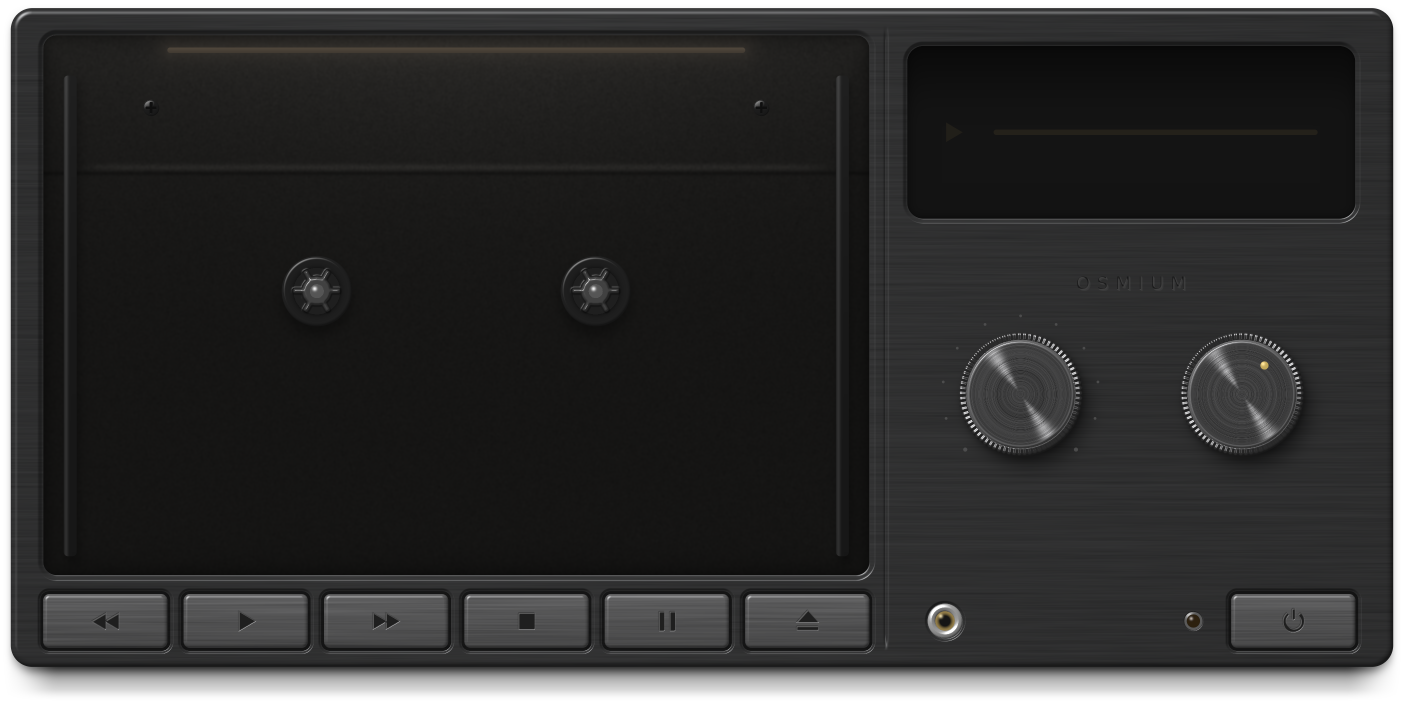
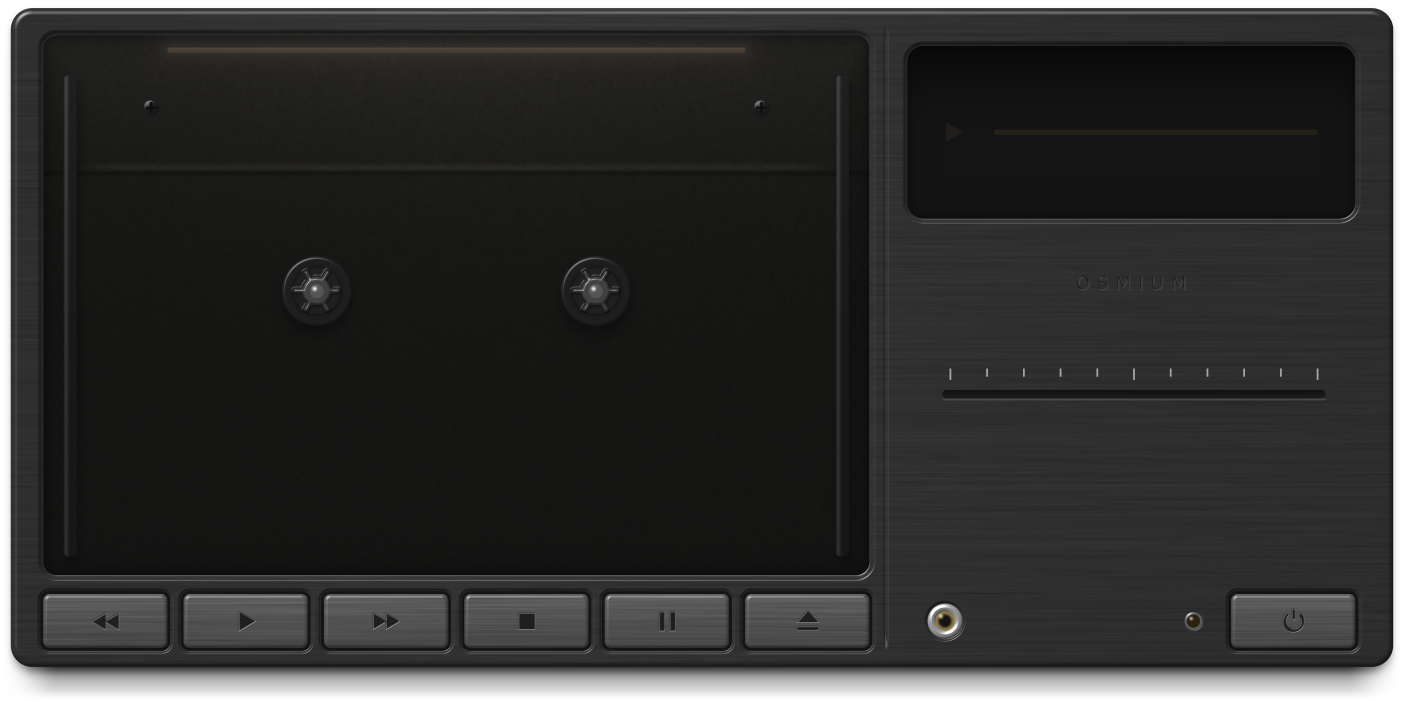
cassette: a volume fader instead of the knobs on the Now Playing deck too
The full-screen deck already had it; the one in the Now Playing panel still
showed two knobs. Both now have the horizontal fader (the 90s panel numbers
its ticks), and the knob code and its gold dot image are gone.

Changed region(s): [[0.6738, 0.4786, 0.9494, 0.6581], [0.7044, 0.6282, 0.735, 0.6581]]

diff --git a/native-ui-qt/qml/AnimCassette.qml b/native-ui-qt/qml/AnimCassette.qml
@@ -8,8 +8,8 @@
 // below. The album title and artist on the label are live text.
 //
 // The deck's controls work: the transport keys, eject (the cassette comes
-// out and stays out until PLAY or playback from elsewhere), the left knob
-// (volume) and the power key. The scene only reports them through
+// out and stays out until PLAY or playback from elsewhere), the volume
+// fader and the power key. The scene only reports them through
 // action(name, value); the host (NpAnimation.qml) talks to the player.
 //
 // 🚨 The kiosk runs on a weak iGPU, 24/7: nothing here loops. The reels (and
@@ -36,10 +36,10 @@ Item {
     property string subtitle: ""         // artist
     // the deck's controls (optional: without them the display still works)
     property int volume: -1              // 0..100, -1 unknown
-    property bool volumeFixed: false     // the volume is not ours to change (knob disabled)
+    property bool volumeFixed: false     // the volume is not ours to change (fader disabled)
     property bool power: true            // the player is on
 
-    // A key or the knob was used: "prev", "play", "pause", "stop", "next",
+    // A key or the fader was used: "prev", "play", "pause", "stop", "next",
     // "eject" (value undefined), "volume" (value {level, final}), "power"
     // (value: the wanted state). Never emitted by a still preview.
     signal action(string name, var value)
@@ -83,9 +83,6 @@ Item {
     readonly property real hingeY: doorY + doorH
     readonly property real openAngle: 34               // degrees the door tilts forward
     readonly property real slide: 62                   // points the cassette travels into the holder
-    readonly property real knobX: 378                 // the volume knob
-    readonly property real knobY: 146
-    readonly property real knobTravel: 150            // points of drag from 0 to 100
     readonly property real barX0: 368
     readonly property real barX1: 488
     readonly property real barY: 49
@@ -388,10 +385,6 @@ Item {
         { name: "eject", action: "eject", x0: 276, x1: 322, h0: 273, h1: 330 },
         { name: "power", action: "power", x0: 456, x1: 502, h0: 436, h1: 520 }
     ]
-    readonly property real knobAngle: {
-        var v = knobArea.level >= 0 ? knobArea.level : volume
-        return v < 0 ? -30 : -135 + 2.7 * Math.max(0, Math.min(100, v))
-    }
 
     // ── what the display, the PLAY key and the LED show ────────────────────
     readonly property bool loaded: !live || (phase === 2 && hasTrack && power)
@@ -725,54 +718,13 @@ Item {
             }
         }
 
-        // The volume knob: its gold dot follows the volume (-135 degrees at 0,
-        // +135 at 100); drag up or to the right to turn it up, or use a wheel.
-        Pic {
-            x: root.knobX - 16.5; y: root.knobY - 16.5; width: 33; height: 33
-            file: "knob-dot.png"
-            rotation: root.knobAngle
-            visible: !root.vintage
-            opacity: root.live && root.volumeFixed ? 0.35 : 1
-        }
-        Rectangle {
-            x: root.knobX - 23; y: root.knobY - 23; width: 46; height: 46; radius: 23
-            antialiasing: true
-            color: "#000000"; opacity: 0.4
-            visible: !root.vintage && root.live && root.volumeFixed
-        }
-        MouseArea {
-            id: knobArea
-            x: root.knobX - 42; y: root.knobY - 44; width: 84; height: 90
-            enabled: !root.vintage && root.live && !root.volumeFixed && root.volume >= 0
-            property int level: -1               // being dragged to, -1 not dragging
-            property real fromLevel: 0
-            property real fromX: 0
-            property real fromY: 0
-            onPressed: (m) => { fromLevel = root.volume; fromX = m.x; fromY = m.y; level = -1 }
-            onPositionChanged: (m) => {
-                var v = Math.round(Math.max(0, Math.min(100, fromLevel + ((m.x - fromX) - (m.y - fromY)) * 100 / root.knobTravel)))
-                if (v === (level >= 0 ? level : root.volume)) return
-                level = v
-                root.action("volume", { level: v, final: false })
-            }
-            onReleased: {
-                if (level >= 0) root.action("volume", { level: level, final: true })
-                level = -1
-            }
-            onCanceled: level = -1
-            onWheel: (w) => {
-                var v = Math.max(0, Math.min(100, root.volume + (w.angleDelta.y > 0 ? 2 : -2)))
-                if (v !== root.volume) root.action("volume", { level: v, final: true })
-            }
-        }
-        // The 90s panel: a horizontal volume fader instead of the knobs
-        // (cassette.py FADER: 0 at x 352, 100 at x 488, slot at y 146). Drag
-        // the cap, or touch the slot to send it there; a wheel works too.
+        // The volume fader (cassette.py FADER: 0 at x 352, 100 at x 488, slot
+        // at y 146). Drag the cap, or touch the slot to send it there; a wheel
+        // works too.
         readonly property real faderX0: 352
         readonly property real faderX1: 488
         readonly property real faderLevel: faderArea.level >= 0 ? faderArea.level : Math.max(0, root.volume)
         Pic {
-            visible: root.vintage
             x: stage.faderX0 + (stage.faderX1 - stage.faderX0) * (!root.live ? 0.7 : stage.faderLevel / 100) - 10
             y: 146 - 14; width: 20; height: 28
             file: "fader.png"
@@ -781,7 +733,7 @@ Item {
         MouseArea {
             id: faderArea
             x: stage.faderX0 - 12; y: 146 - 16; width: stage.faderX1 - stage.faderX0 + 24; height: 32
-            enabled: root.vintage && root.live && !root.volumeFixed && root.volume >= 0
+            enabled: root.live && !root.volumeFixed && root.volume >= 0
             property int level: -1               // being dragged to, -1 not dragging
             function at(mx) { return Math.round(Math.max(0, Math.min(100, (mx - 12) * 100 / (stage.faderX1 - stage.faderX0)))) }
             function send(v, fin) {

diff --git a/native-ui-qt/tools/np-anim/cassette.py b/native-ui-qt/tools/np-anim/cassette.py
@@ -3,8 +3,8 @@
 
 The scene is the front of a cassette deck: a dark brushed front panel with the
 cassette bay on the left (a bottom-hinged door with a smoked window), a row of
-transport keys under it, a display, two knobs, a headphone jack and the power
-key on the right. Through the window the cassette: a smoked shell, a graphite
+transport keys under it, a display, a volume fader, a headphone jack and the
+power key on the right. Through the window the cassette: a smoked shell, a graphite
 label (the album title and artist are drawn live by the QML), the tape packs
 and the white toothed hubs behind a clear window, the tape running along the
 bottom between the guide rollers.
@@ -27,15 +27,16 @@ design of AnimCassette.qml; the geometry constants below are mirrored there):
   deck.png          the whole deck without the door: drop shadow, brushed
                     front panel, the bay behind the door (back wall lit by a
                     lamp under the top lip, the two reel spindles), the six
-                    transport keys, display window, knobs, jack, power key
+                    transport keys, display window, the volume fader's slot,
+                    jack, power key
   door.png          the door: brushed frame, cassette holder lip and clips,
                     smoked glass with its reflection (tilts open in the QML)
   door-edge.png     the top face of the door, seen only while it is tilted
   key-play.png      the PLAY key held down while playing, its symbol lit
   key-<k>-down.png  each key pressed (rew, play, ff, stop, pause, eject,
                     power): shown while a finger is on it (over deck.png)
-  knob-dot.png      the volume knob's gold indicator, pointing up (turned
-                    by the QML to follow the volume)
+  fader.png         the volume fader's cap (moved by the QML to follow the
+                    volume)
   disp-play.png     the lit play symbol of the display
   disp-glass.png    reflection of the display glass (over the progress bar)
   led.png           the lit LED next to the power key
@@ -83,13 +84,9 @@ DISPLAY = (336, 17, 502, 81)
 DISPLAY_R = 6
 DISP_PLAY_C = (353, 49)
 BAR = (368, 49, 488)              # x0, y, x1 of the progress track
-KNOBS = ((378, 146, None), (460, 146, -52))   # centre, indicator angle (None: the volume
-                                              # knob, its dot is knob-dot.png)
-VOLUME_SWEEP = 135                            # the volume knob turns +-135 degrees from straight up
-# the full-screen 90s panel (vintage) has no knobs: a horizontal volume fader
+# the volume: a horizontal fader (the 90s panel, vintage, numbers its ticks)
 FADER = (352.0, 488.0, 146.0)                 # x at 0, x at 100, y of the slot
 FADER_CAP = (12.0, 20.0)                      # the cap, centred on its position
-KNOB_R = 23
 JACK_C = (350, 230)
 LED_C = (442, 230)
 POWER = (456, 220, 502, 240)
@@ -439,13 +436,6 @@ def build_deck(out, vintage=False):
     plate = alb * (0.28 + 0.72 * lambert(nx, ny, nz)) + 0.50 * blinn(nx, ny, nz, 60) + 0.05 * blinn(nx, ny, nz, 6)
     plate = gray3(plate, (0.985, 0.995, 1.02))
 
-    knobs = () if vintage else KNOBS
-    # shadows of the knobs on the panel (they stand ~9 points proud)
-    for kx, ky, _ in knobs:
-        off = -LXY * 9.0 * LSLOPE * 0.55
-        plate = plate * (1 - 0.75 * soft(sd_circle(X - off[0], Y - off[1], kx, ky, KNOB_R - 0.5), 3.2))[..., None]
-        plate = plate * (1 - 0.5 * soft(sd_circle(X - 0.6, Y - 1.0, kx, ky, KNOB_R), 1.0))[..., None]
-
     # the keys in their slots
     for i in range(6):
         k = key_rect(i)
@@ -468,44 +458,6 @@ def build_deck(out, vintage=False):
         glass = glass + np.clip(unlit, 0, 1)[..., None] * rgb3((0.010, 0.0075, 0.003))
     plate = mix(plate, glass, cv.cov(sd_disp))
 
-    # knobs: a knurled skirt round a face turned in fine concentric rings
-    phl = math.atan2(LXY[1], LXY[0])
-    for kx, ky, ind in knobs:
-        dx, dy = X - kx, Y - ky
-        rk = np.hypot(dx, dy)
-        phi = np.arctan2(dy, dx)
-        RF = KNOB_R - 3.6
-        hk = np.where(rk < RF, 0.8 * (1 - (rk / RF) ** 2), 0.0)
-        ch = smoothstep(RF + 0.9, RF - 0.1, rk)                         # chamfer to the face
-        knurl = (rk > RF + 0.9)
-        rim = 1.2 * np.sqrt(np.clip(1 - (1 - np.clip((KNOB_R - rk) / 1.2, 0, 1)) ** 2, 0, 1))
-        hk = hk + 1.0 * ch + np.where(knurl, rim - 0.6 + 0.22 * np.cos(phi * 72), 0.0) * (1 - ch)
-        bnx, bny, bnz = normals(hk, n)
-        lam = lambert(bnx, bny, bnz)
-        aniso = np.exp(-(np.sin(phi - phl) ** 2) / 0.02) * smoothstep(1.0, 8.0, rk)
-        rings = radial_noise(rk, rng, 0.08, rmax=30)
-        face = 0.045 * (1 + 0.25 * rings) * (0.45 + 0.55 * lam) + 0.28 * aniso * (1 + 0.35 * rings)
-        side = 0.020 * (0.3 + 0.7 * lam) + 0.9 * blinn(bnx, bny, bnz, 30)
-        chamf = 0.12 * (0.25 + 0.75 * lam) + 1.2 * blinn(bnx, bny, bnz, 40)
-        fm = smoothstep(RF - 0.2, RF - 0.7, rk)
-        km = smoothstep(RF + 0.7, RF + 1.2, rk)
-        cap = face * fm + chamf * (1 - fm) * (1 - km) + side * km + 0.4 * blinn(bnx, bny, bnz, 90) * fm
-        col = gray3(cap, (1.0, 1.0, 1.02))
-        # the indicator: a small gold dot let into the face
-        if ind is not None:
-            ia = math.radians(ind)
-            ix, iy = kx + 13.5 * math.cos(ia), ky + 13.5 * math.sin(ia)
-            rd = np.hypot(X - ix, Y - iy)
-            col = mix(col, gold_dot(X, Y, ix, iy), cv.cov(rd - 1.5))
-        else:
-            # the volume knob: a faint scale of eleven dots round it, 0 to 100
-            for k in range(11):
-                a = math.radians(-90 - VOLUME_SWEEP + k * 2 * VOLUME_SWEEP / 10)
-                tx, ty = kx + 29.0 * math.cos(a), ky + 29.0 * math.sin(a)
-                rt = 0.75 if k in (0, 10) else 0.5
-                tm = cv.cov(np.hypot(X - tx, Y - ty) - rt)
-                plate = plate * (1 - 0.5 * tm)[..., None] + gray3(0.060 * tm)
-        plate = mix(plate, col, cv.cov(rk - KNOB_R))
 
     # headphone jack: chrome ring, gold-plated throat
     ring = cv.cov(rj - 6.4) * (1 - cv.cov(rj - 3.6))
@@ -525,19 +477,19 @@ def build_deck(out, vintage=False):
     bead_c = rgb3((0.022, 0.011, 0.002)) + rgb3((0.5, 0.45, 0.4)) * np.exp(-((X - LED_C[0] + 0.8) ** 2 + (Y - LED_C[1] + 0.9) ** 2) / 0.25)[..., None]
     plate = mix(plate, bead_c, bead)
 
+    # the volume fader's slot (no knobs): a dark cut with rounded ends, its
+    # lower lip catching the light, eleven ticks above it; the cap is fader.png
+    fx0, fx1, fy = FADER
+    sd_slot = sd_rrect(X, Y, fx0 - 3, fy - 1.6, fx1 + 3, fy + 1.6, 1.6)
+    slot = cv.cov(sd_slot)
+    lip = cv.cov(sd_rrect(X, Y, fx0 - 3, fy + 1.6, fx1 + 3, fy + 2.3, 0.4)) * (1 - slot)
+    plate = mix(plate, gray3(0.003 + 0.004 * smoothstep(fy - 1.6, fy + 1.6, Y)), slot)
+    plate = plate * (1 - 0.4 * lip)[..., None] + gray3(0.05 * lip)
+    for k in range(11):
+        tx = fx0 + (fx1 - fx0) * k / 10
+        tm = cv.cov(sd_rrect(X, Y, tx - 0.3, fy - 9.5, tx + 0.3, fy - 6.5 + (1.2 if k % 5 == 0 else 0), 0.1))
+        plate = plate * (1 - tm[..., None]) + 0.40 * tm[..., None]
     if vintage:
-        # the fader's slot: a dark cut with rounded ends, its lower lip catching
-        # the light; eleven ticks and 0-10 above it
-        fx0, fx1, fy = FADER
-        sd_slot = sd_rrect(X, Y, fx0 - 3, fy - 1.6, fx1 + 3, fy + 1.6, 1.6)
-        slot = cv.cov(sd_slot)
-        lip = cv.cov(sd_rrect(X, Y, fx0 - 3, fy + 1.6, fx1 + 3, fy + 2.3, 0.4)) * (1 - slot)
-        plate = mix(plate, gray3(0.003 + 0.004 * smoothstep(fy - 1.6, fy + 1.6, Y)), slot)
-        plate = plate * (1 - 0.4 * lip)[..., None] + gray3(0.05 * lip)
-        for k in range(11):
-            tx = fx0 + (fx1 - fx0) * k / 10
-            tm = cv.cov(sd_rrect(X, Y, tx - 0.3, fy - 9.5, tx + 0.3, fy - 6.5 + (1.2 if k % 5 == 0 else 0), 0.1))
-            plate = plate * (1 - tm[..., None]) + 0.40 * tm[..., None]
         import cdfront
         items = [(name, (key_rect(i)[0] + key_rect(i)[2]) / 2, 214.5, 3.8, True, "m", 0.3)
                  for i, name in enumerate(("REW", "PLAY", "F.FWD", "STOP", "PAUSE", "EJECT"))]
@@ -550,6 +502,7 @@ def build_deck(out, vintage=False):
             ("PHONES", JACK_C[0], 214.5, 3.8, True, "m", 0.3),
             ("POWER", (POWER[0] + POWER[2]) / 2, 214.5, 3.8, True, "m", 0.3),
         ]
+        # the 90s panel numbers the ticks 0-10
         items += [(str(k), FADER[0] + (FADER[1] - FADER[0]) * k / 10, FADER[2] - 14.5, 3.4, True, "m", 0.0)
                   for k in range(11)]
         ink = cdfront.text_mask(cv, items)
@@ -558,7 +511,7 @@ def build_deck(out, vintage=False):
         save(cv.image(), out, "deck-v.png")
         return
 
-    # the only lettering: OSMIUM, lightly engraved between display and knobs
+    # the only lettering: OSMIUM, lightly engraved between display and fader
     m = text_mask(cv, "OSMIUM", (DISPLAY[0] + DISPLAY[2]) / 2, ENGRAVE_Y, 5.0, 2.5)
     if m is not None:
         sh_ = int(round(0.3 * n))
@@ -645,14 +598,6 @@ def build_fader(out):
     rgb = rgb * (1 - line[..., None]) + 0.75 * line[..., None]
     cv.over(srgb(rgb), cv.cov(sd))
     save(cv.image(), out, "fader.png")
-
-
-def build_knob_dot(out):
-    R = 16.5
-    cv = Canvas(-R, -R, 2 * R, 2 * R, PPT_CAS)
-    X, Y = cv.X, cv.Y
-    cv.over(srgb(gold_dot(X, Y, 0.0, -13.5)), cv.cov(np.hypot(X, Y + 13.5) - 1.5))
-    save(cv.image(), out, "knob-dot.png")
 
 
 def build_display_parts(out):
@@ -1036,7 +981,7 @@ def main():
     ap.add_argument("--only", default="", help="comma separated builder names (debug)")
     args = ap.parse_args()
     os.makedirs(args.out, exist_ok=True)
-    builders = {"deck": build_deck, "deck-v": lambda o: build_deck(o, vintage=True), "fader": build_fader, "keys": build_keys, "knobdot": build_knob_dot, "display": build_display_parts,
+    builders = {"deck": build_deck, "deck-v": lambda o: build_deck(o, vintage=True), "fader": build_fader, "keys": build_keys, "display": build_display_parts,
                 "door": build_door, "dooredge": build_door_edge, "cassette": build_cassette,
                 "back": build_cassette_back, "shadow": build_cassette_shadow, "pack": build_pack,
                 "hub": build_hub}
